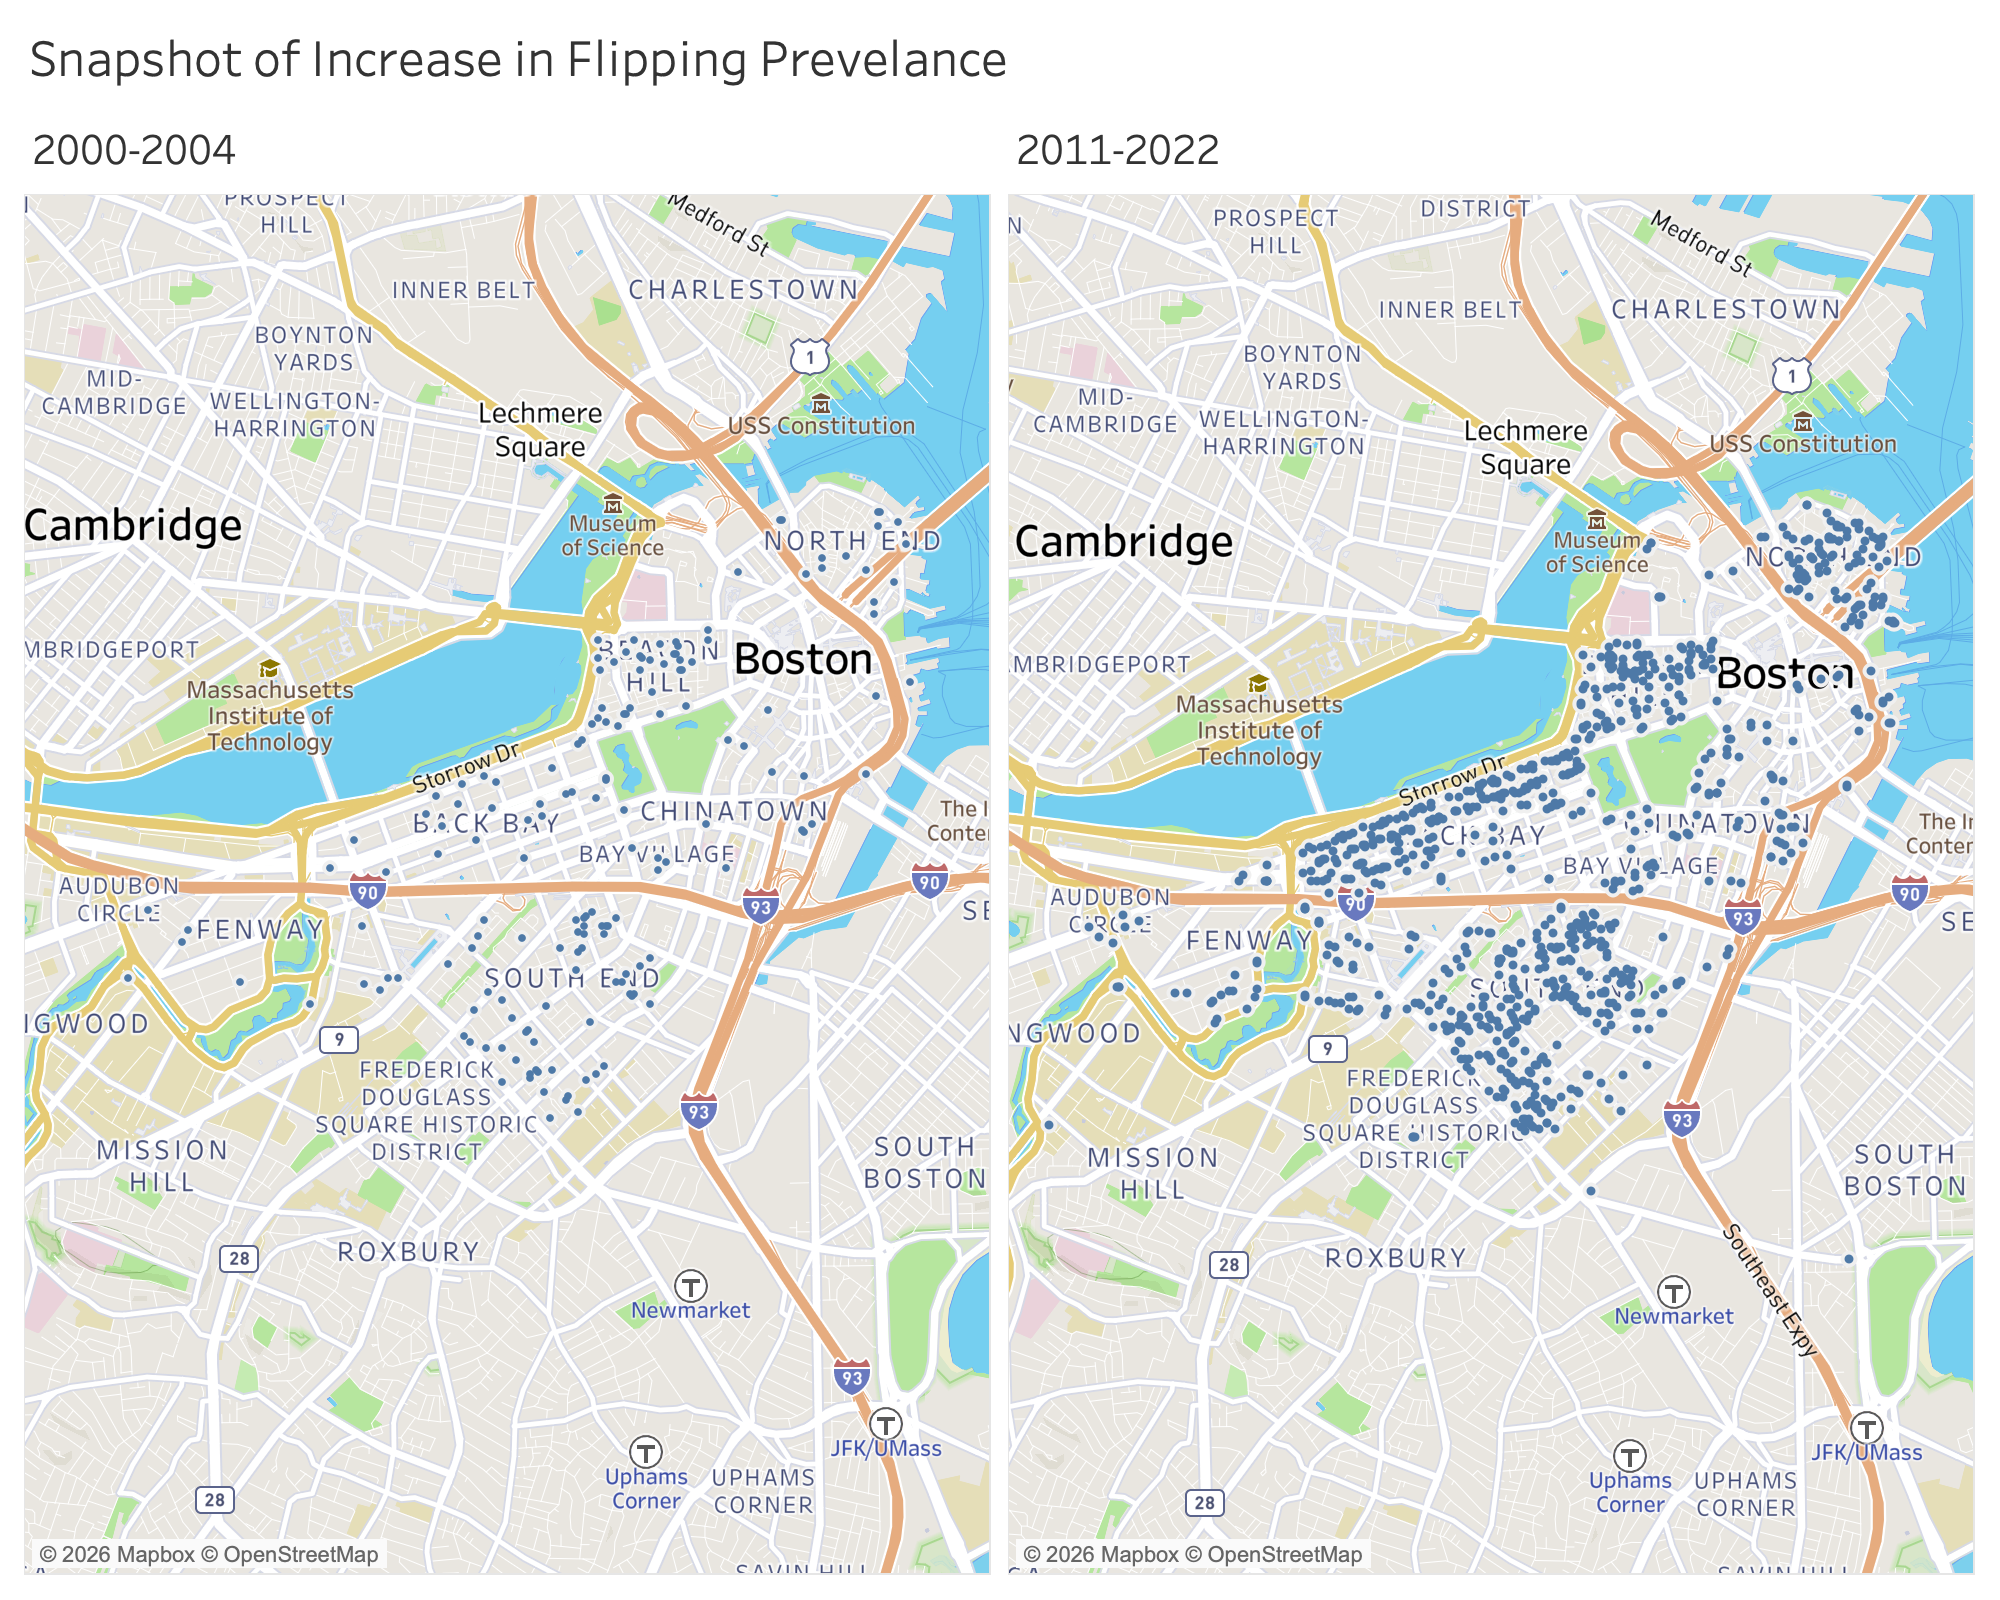
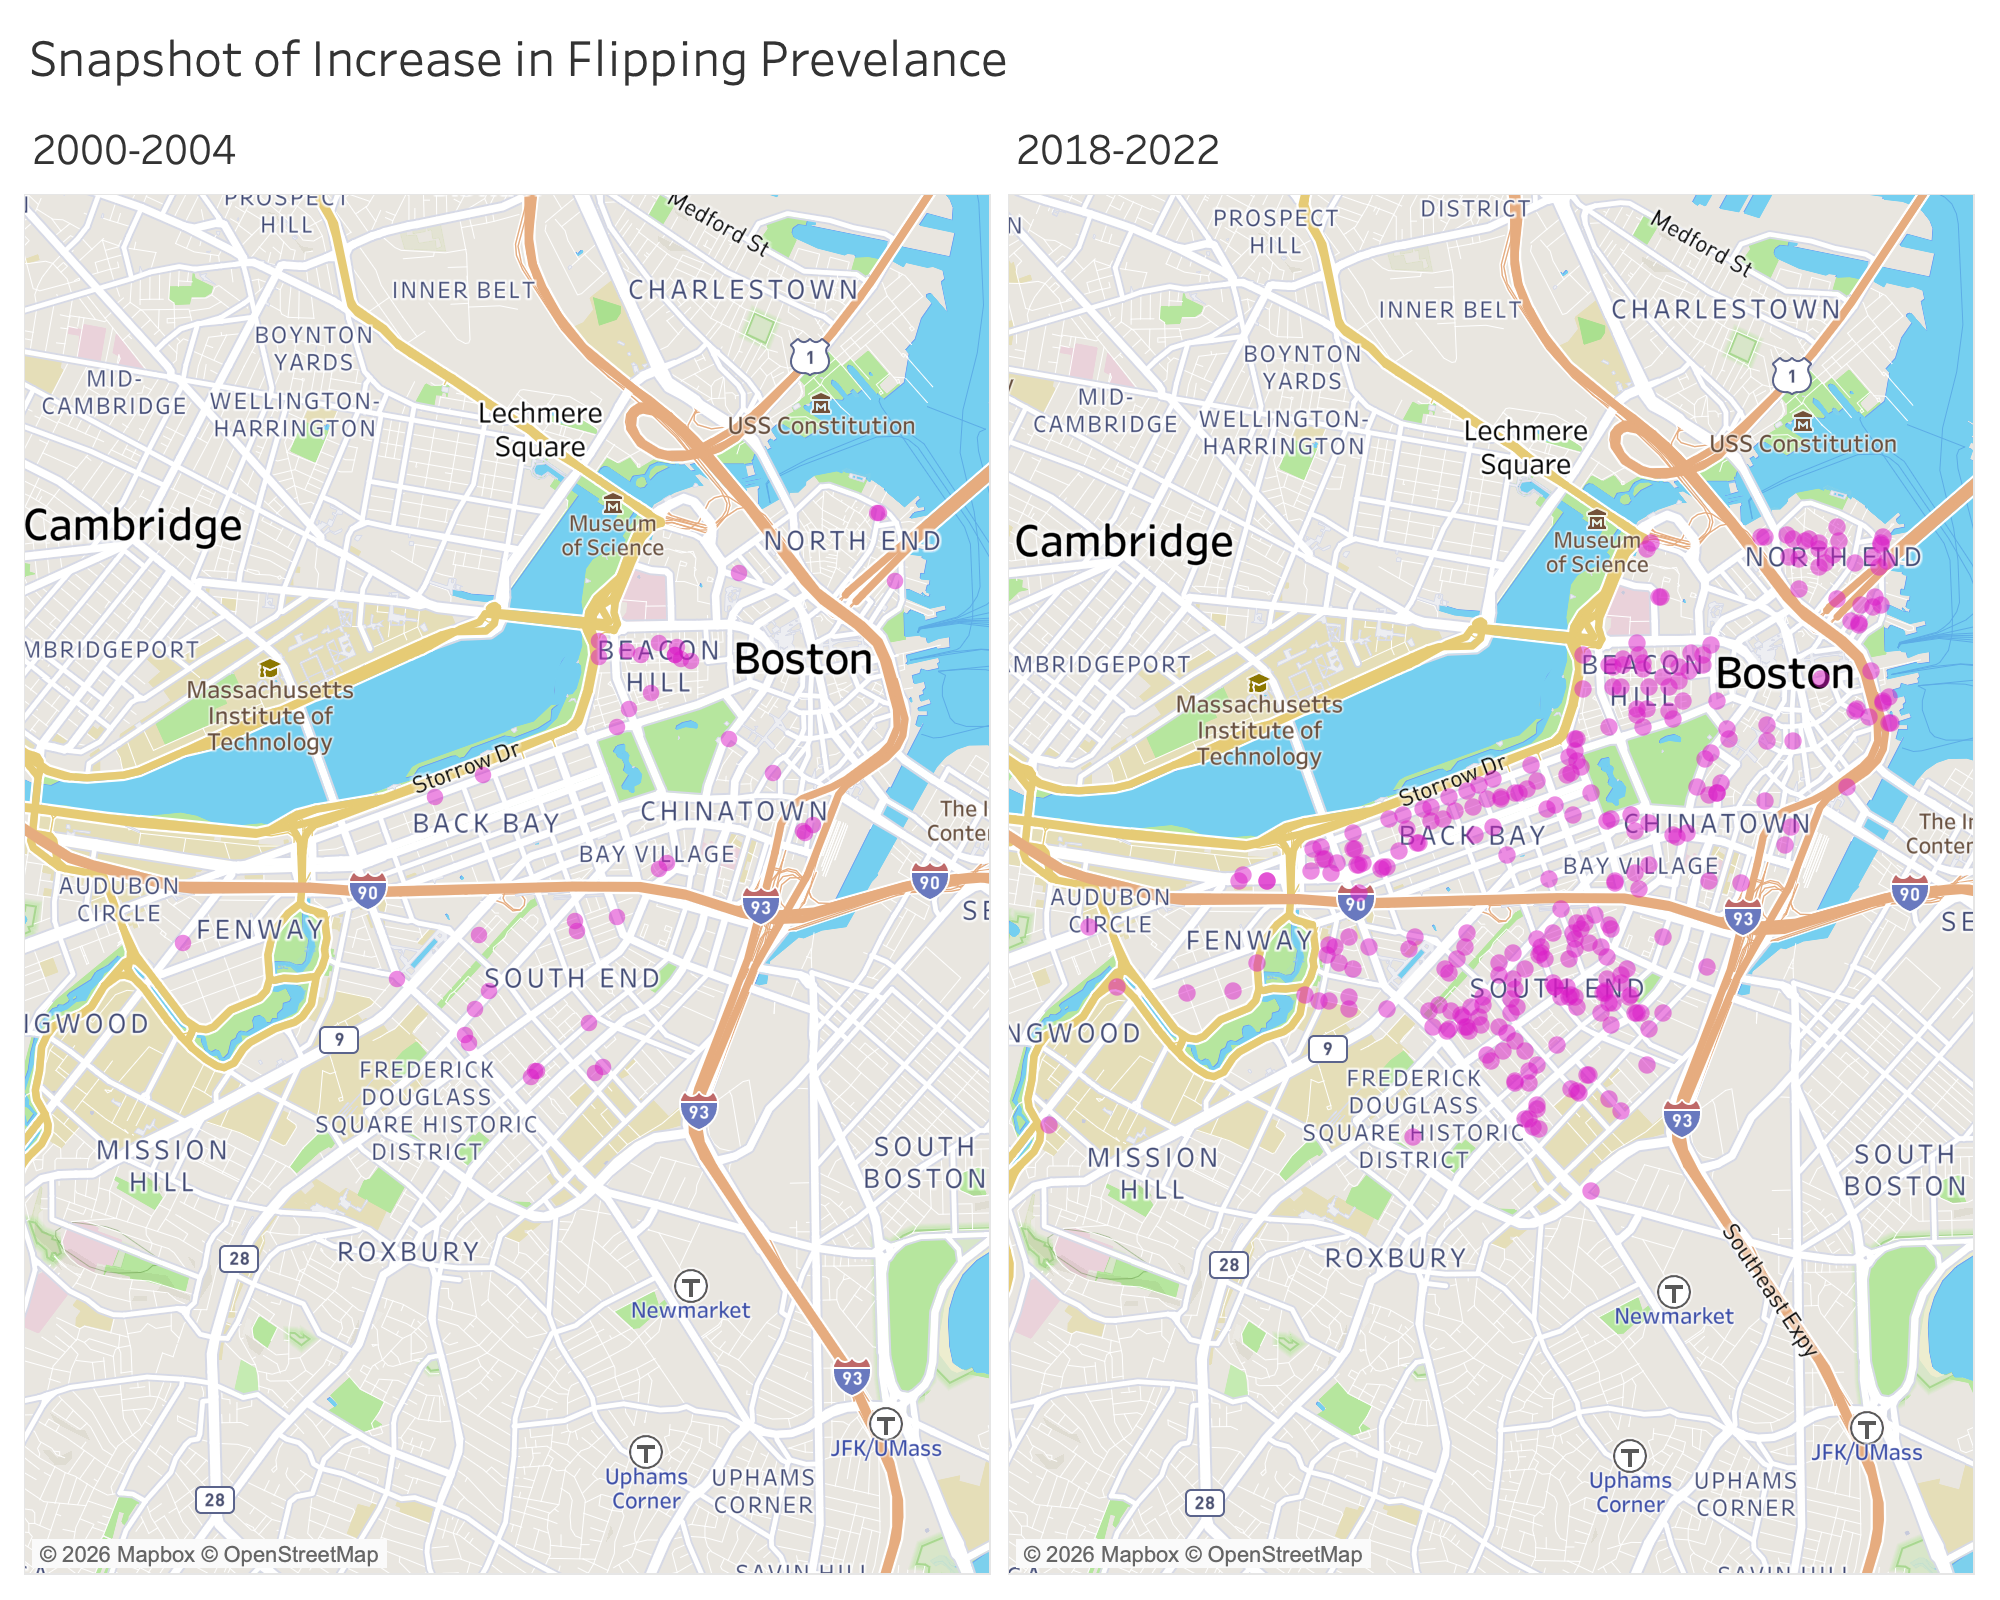
Captions

diff --git a/index.html b/index.html
@@ -34,25 +34,8 @@
 		</section>
 
 		<section>
-			<h2>Overview and Introduction to the Data</h2>
-			<figure>
-				<img src="images/Price_Map.png" alt="" />
-				<figcaption>
-				ENTER IMAGE CAPTION HERE.
-				</figcaption>
-			</figure>
-
-			<figure>
-				<img src="images/Price_Map.png" alt="" />
-				<figcaption>
-				ENTER IMAGE CAPTION HERE.
-				</figcaption>
-			</figure>
-		</section>
-
-		<section>
 			<h2>Data Cleaning Summary</h2>
-			<h4>Only the most important points are listed here for brevity and readability. Full details and justifications for the data manipulations are in Appendix A. Individual sections have their own cleanings if necessary</h4>
+			<h4>Only the most important points are listed here for brevity and readability. Full details and justifications for the data manipulations are in Appendix A. Individual sections have their own cleanings if necessary.</h4>
 			<ol>
 				<li>Prices below $10,000 were filtered out as outlier or family transactions</li>
 				<li>Excluded properties with latitudes and longitudes outside of Boston (See Appendix A and the note on spatial transformations below)</li>
@@ -62,8 +45,8 @@
 			<h3>Advanced Data Transformations</h3>
 			<ol>
 				<li>
-					Latitude and Longitude Recovery: There were ~450 entries where the latitude and longitudes were entered as (0, 0). I noted that these were legitimate purchases and that there was a correlation with their price and zip code.
-					removing them would have introduced a statistical bias because of this correlation. Therefore, I generated corrected latitudes and longitudes for these properties using their address as a reference and updated their entries.
+					Latitude and Longitude Recovery: There were ~450 entries where the latitude and longitudes were entered as (0, 0). I determined that these were likely legitimate purchases by checking their address against their zip, then seeing if the price was reasonable for a sample. I noticed that an entry having a (0, 0) was correlated with their price and zip code.
+					Removing them would have introduced a statistical bias because of this correlation and the number of entries. Therefore, I generated corrected latitudes and longitudes for these properties using their address as a reference and updated their entries.
 				</li>
 				<li>
 					Inflation Adjustment: The prices were at time of sale, which means that if I want to fairly compare (real) prices across different years, then I must adjust for inflation.
@@ -74,31 +57,98 @@
 		</section>
 
 		<section>
+			<h2>Overview and Introduction to the Data</h2>
+			<p>
+				Let's look at all the points from a more familiar lens, the Boston Map. We can then understand how the data is spread out in space and get a useful reference point for the following analysis.
+				If we mark the prices, we should be able to see some trends we might expect like expensive high rises near Downtown Crossing/Government Center. 
+			</p>
+			<figure>
+				<img src="images/Price_Map.png" alt="" />
+				<figcaption>
+				Map of Boston overlayed with property purchases and their price distribution. Larger, redder circles represent larger purchases to help reweight the data by cash and contrast expensive vs inexpensive areas.
+				Represents the whole dataset from 2000-2022 (minus filters discussed above). The data is mostly between Fenway and the Downtown Waterfront, and north of South End. Many notable areas like Allston, South Boston, parts of West End, and Sea Port
+				are not represented in the data.
+				</figcaption>
+			</figure>
+
+			<p>
+				And yes, it appears that we can note some trends we might expect from a Boston real estate map. Downtown Crossing and Government center are notably expensive, and the areas of North End and the transition to South End are cheaper.
+				However, many neighborhoods have very little data in this dataset. In general, the data represented focuses on the most urban areas of the city.
+			</p>
+
+			<h4>How does the Market Trend? And how does it compare to Inflation?</h4>
+			<p>
+				We expect housing to be getting more and more expensive year after year. This is one of the most common analyses done, but let's ask how it relates to my questions. One can look at housing prices as a place to live or as an investor. 
+				If you're looking at housing prices as a place to live, then price increases signal that it's becoming increasingly difficult to afford a house. However, some of my questions relate to investors, so I would like to visualize prices
+				in a way an investor would look at them. From my personal experiences, investors care about how assets appreciate and how this compares to inflation. So let's investigate house prices in Boston through the lens of appreciating assets instead of places to live.
+			</p>
+
+			<figure>
+				<img src="images/Price_Line_Chart.png" alt="" />
+				<figcaption>
+				Increases in median housing price in the Boston area over time. The darker green curve has been adjusted for inflation to yr 2000s dollars (i.e real price) while the lighter green curve was not adjusted for inflation (i.e nominal price).
+				The shaded distance between the green curves and the black horizontal reference line gives the appreciation the median house has experienced since 2000.
+				The shaded region between the light and dark green curves represent the nominal appreciation that can be attributed solely to inflation.
+				We can conclude that real estate has appreciated relatively steadily since 2000, even accounting for inflation. An investor would care about the
+				real return on investment (real ROI), which would have been 80% in total over the 22 years.
+				</figcaption>
+			</figure>
+
+			<p>
+				The idea of a house as an appreciating asset rather than a place to live is a key idea for investors. This is of course why housing investment is popular in the
+				first place. Not only does the asset appreciate, it also pays dividends in rent collection.
+			</p>
+
+			<p>
+				If we want to think about houses as a currency of sorts, we should understand how the denominations are distributed. How are properties broken down by price? 
+			</p>
+
+			<figure>
+				<img src="images/General Distribution of housing prices.png" alt="" />
+				<figcaption>
+					Number of distinct properties broken down by price bin. The size and color of each bubble corresponds to the number of distinct addresses falling into that bin. If an address was bought multiple
+					times, then the most recent value after being adjusted for inflation was used. Surprising to see an uptick in the $1,000,000-$5,000,000 group, but likely the values are too spread.
+				</figcaption>
+			</figure>
+
+			<figure>
+				<img src="images/Tot_owned_market_share.png" alt="" />
+				<figcaption>
+				Breakdown of money spent in the real estate market by number of houses owned (including purchase). The size and color of the box corresponds to the total amount of money each group of people spent from 2000 to 2022. 
+				We see that most of the purchases are done by entities buying their only property. However, all entities who own 2 homes at some point purchased 1 home previously, so we expect single home owners to be 
+				over represented. Additionally, many people sell their home to buy another one, which also inflates the single ownership.
+				</figcaption>
+			</figure>
+
+			<p>
+				Okay, so while entities often own just one home, we don't know who the entities are yet. An entity that owns 5 homes could be a medium investor or simply a profoundly wealthy individual.
+				We should understand how the market breaks down along those lines so we know who is actually doing the buying. It is also interesting to see how these trends change over time. From the
+				readings, we should expect large institutional investors like Freddie Mac and Fannie Mae to be buying in big. Maybe this will give us a clue into my question on how Freddie Mac and Fannie Mae are operating in Boston.
+			</p>
+
+			<figure>
+				<img src="images/Investor Market Share adj.png"" alt="" />
+				<figcaption>
+				Investor vs Non-Investor Purchasing. The categories of investors have been broken down by color into small, medium, large, and institutional based on the MAPC criteria listed in their article. In brief, investors
+				are categorized by meeting either a minimum number of houses owned or minimum cash spent. The length of the bar represents the amount of money spent by that group in the year bin. The data has been broken out by time bins of 5 years. The years 2020-2022 have been excluded because 
+				they would be underrepresented in a total due to only having 3 years of purchasing.
+				</figcaption>
+			</figure>
+
+		</section>
+
+		<section>
 			<h2>Investor Flows</h2>
 
 			<figure>
-				<img src="images/Investor_Cash_Flows_1.png" alt="" />
+				<img src="images/Investor_Flows_1.png" alt="" />
 				<figcaption>
 				ENTER IMAGE CAPTION HERE.
 				</figcaption>
 			</figure>
 
 						<figure>
-				<img src="images/Investor_Cash_Flows_2.png" alt="" />
-				<figcaption>
-				ENTER IMAGE CAPTION HERE.
-				</figcaption>
-			</figure>
-
-						<figure>
-				<img src="images/Investor_Property_Flows_1.png" alt="" />
-				<figcaption>
-				ENTER IMAGE CAPTION HERE.
-				</figcaption>
-			</figure>
-
-			<figure>
-				<img src="images/Investor_Property_Flows_2.png" alt="" />
+				<img src="images/Investor_Flows_2.png" alt="" />
 				<figcaption>
 				ENTER IMAGE CAPTION HERE.
 				</figcaption>
@@ -110,11 +160,19 @@
 			<h2>Flipping</h2>
 
 			<figure>
+				<img src="images/Flipping_Map.png" alt="" />
+				<figcaption>
+				ENTER IMAGE CAPTION HERE.
+				</figcaption>
+			</figure>
+
+			<figure>
 				<img src="images/Bar_Flipping.png" alt="" />
 				<figcaption>
 				ENTER IMAGE CAPTION HERE.
 				</figcaption>
 			</figure>
+
 
 			<figure>
 				<img src="images/Pie Charts.png" alt="" />
@@ -126,24 +184,24 @@
 		</section>
 
 		<section>
-			<h2>Discoveries & Insights</h2>
+			<h2>Influence of Freddie Mac and Fannie Mae</h2>
 
 			<figure>
-				<img src="IMAGE_FILENAME" alt="" />
+				<img src="images/GSE_Low_Numbers.png" alt="" />
 				<figcaption>
 				ENTER IMAGE CAPTION HERE.
 				</figcaption>
 			</figure>
 
 			<figure>
-				<img src="IMAGE_FILENAME" alt="" />
+				<img src="images/GSE_Timeline.png" alt="" />
 				<figcaption>
 				ENTER IMAGE CAPTION HERE.
 				</figcaption>
 			</figure>
 
 			<figure>
-				<img src="IMAGE_FILENAME" alt="" />
+				<img src="images/GSE_Sales.png" alt="" />
 				<figcaption>
 				ENTER IMAGE CAPTION HERE.
 				</figcaption>
